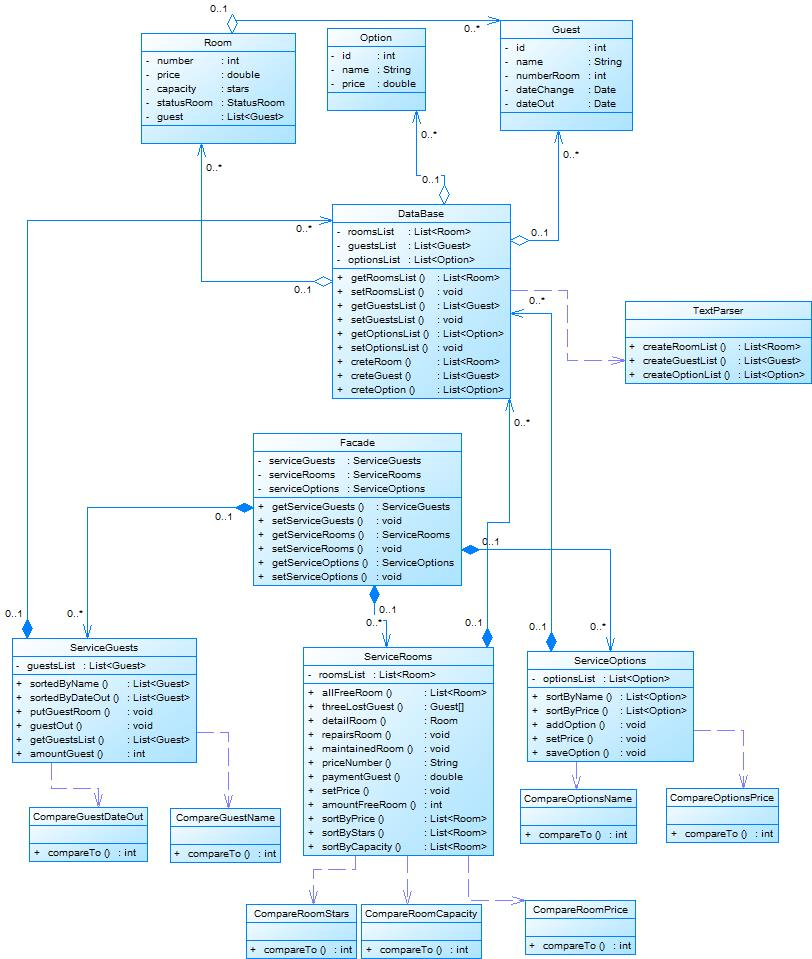
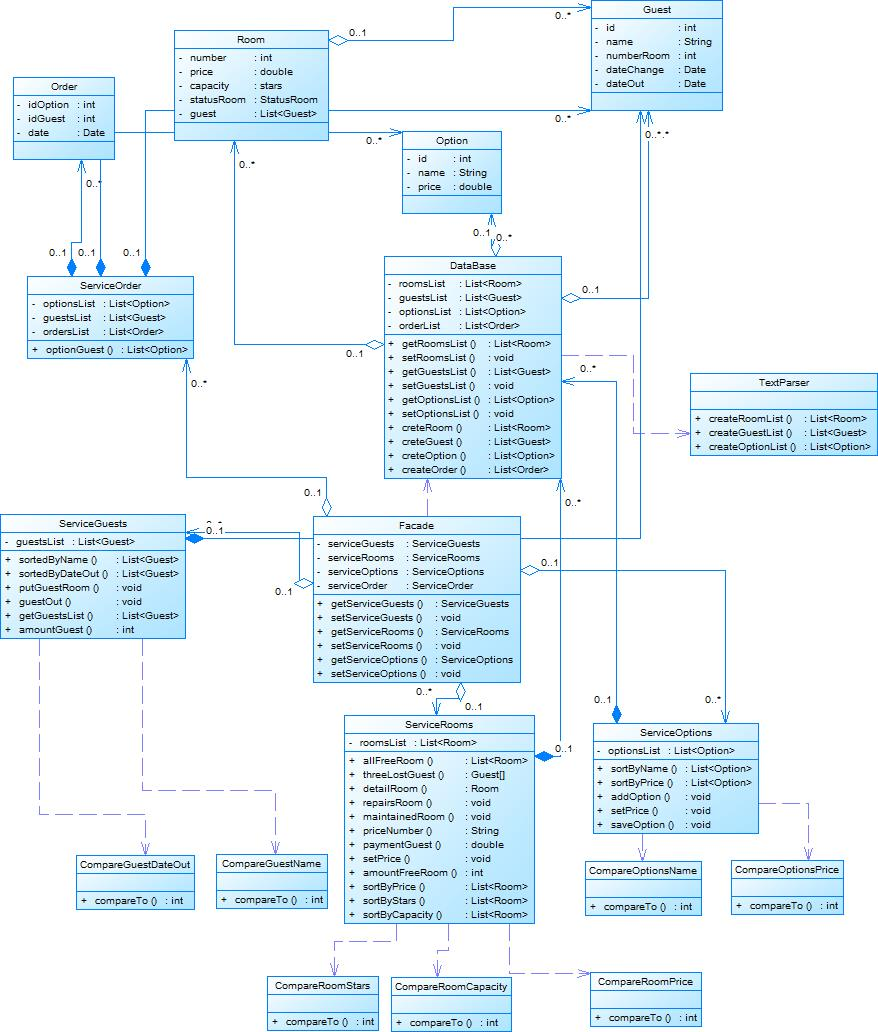
update

diff --git a/task4/hotel/src/com/example/oleg/base/parser/TextParser.java b/task4/hotel/src/com/example/oleg/base/parser/TextParser.java
@@ -7,10 +7,11 @@ import java.util.Date;
 import java.util.List;
 import com.example.oleg.model.Guest;
 import com.example.oleg.model.Option;
+import com.example.oleg.model.Order;
 import com.example.oleg.model.Room;
 
 public class TextParser {
-
+	private final SimpleDateFormat FORMAT = new SimpleDateFormat("dd.MM.yyyy");
 	public TextParser() {
 
 	}
@@ -37,10 +38,9 @@ public class TextParser {
 			String[] guestStr = str[i].split(";");
 			int id = Integer.parseInt(guestStr[0]);
 			String name = guestStr[1];
-			int numberRoom = Integer.parseInt(guestStr[2]);
-			SimpleDateFormat format = new SimpleDateFormat("dd.MM.yyyy");
-			Date dateChange = format.parse(guestStr[3]);
-			Date dateOut = format.parse(guestStr[4]);
+			int numberRoom = Integer.parseInt(guestStr[2]);		
+			Date dateChange = FORMAT.parse(guestStr[3]);
+			Date dateOut = FORMAT.parse(guestStr[4]);
 			Guest guest = new Guest(id, name, numberRoom, dateChange, dateOut);
 			list.add(guest);
 		}
@@ -59,6 +59,24 @@ public class TextParser {
 			Option option = new Option(id, name, price);
 			list.add(option);
 		}
+		return list;
+	}
+	
+	public List<Order>createOrderList(String[] str) throws ParseException{
+		ArrayList<Order> list = new ArrayList<Order>();
+
+		for (int i = 0; i < str.length; i++) {
+			String[] orderStr = str[i].split(";");
+			int idOption = Integer.parseInt(orderStr[0]);
+			int idGuest= Integer.parseInt(orderStr[1]);
+			Date date=FORMAT.parse(orderStr[2]);
+			Order order=new Order();
+			order.setIdGuest(idGuest);
+			order.setIdOption(idOption);
+			order.setDateOption(date);
+			list.add(order);
+		}
+		
 		return list;
 	}
 

diff --git a/task4/hotel/src/com/example/oleg/base/DateBase.java b/task4/hotel/src/com/example/oleg/base/DateBase.java
@@ -8,19 +8,22 @@ import com.danco.training.TextFileWorker;
 import com.example.oleg.base.parser.TextParser;
 import com.example.oleg.model.Guest;
 import com.example.oleg.model.Option;
+import com.example.oleg.model.Order;
 import com.example.oleg.model.Room;
 
 public class DateBase {
 	private List<Room> roomsList;
 	private List<Guest> guestsList;
 	private List<Option> optionsList;
+	private List<Order> orderList;
 
-	public DateBase(String path1, String path2, String path3)
+	public DateBase(String path1, String path2, String path3,String path4)
 			throws ParseException {
 
 		this.roomsList = creteRoom(path1);
 		this.guestsList = creteGuest(path2);
 		this.optionsList = creteOption(path3);
+		this.orderList=createOrder(path4);
 		guestAddRoom();
 	}
 
@@ -77,11 +80,27 @@ public class DateBase {
 		return list;
 	}
 
+	private List<Order> createOrder(String path) throws ParseException{
+		TextFileWorker textFileWorker = new TextFileWorker(path);
+		String[] orders = textFileWorker.readFromFile();
+		TextParser textParser=new TextParser();
+		List<Order> list = textParser.createOrderList(orders);
+		
+		return list;
+	}
 	private void guestAddRoom() {
 		for (int i = 0; i < this.guestsList.size(); i++) {
 			Guest guest = this.guestsList.get(i);
 			this.roomsList.get(guest.getNumberRoom()).getGuest().add(guest);
 		}
+	}
+
+	public List<Order> getOrderList() {
+		return orderList;
+	}
+
+	public void setOrderList(List<Order> orderList) {
+		this.orderList = orderList;
 	}	
 
 	

diff --git a/task4/hotel/src/com/example/oleg/Main.java b/task4/hotel/src/com/example/oleg/Main.java
@@ -17,7 +17,7 @@ public class Main {
 		// TODO Auto-generated method stub
 		System.out.println(args[0]);
 		
-		DateBase dateBase = new DateBase(args[0], args[1], args[2]);
+		DateBase dateBase = new DateBase(args[0], args[1], args[2], args[3]);
 		Facade facade = new Facade(dateBase);
 		for (int i = 0; i < facade.getServiceGuests().getGuestsList().size(); i++) {
 			System.out.println(facade.getServiceGuests().getGuestsList().get(i));
@@ -51,7 +51,7 @@ public class Main {
 
 		facade.getServiceGuests().putGuestRoom("kira",1, format.parse("19.10.2016"), format.parse("30.10.2016"));
 		facade.getServiceGuests().saveGuest(args[1]);
-		dateBase = new DateBase(args[0], args[1], args[2]);
+		dateBase = new DateBase(args[0], args[1], args[2],args[3]);
 		facade=new Facade(dateBase);
 		for (int i = 0; i < facade.getServiceGuests().getGuestsList().size(); i++) {
 			System.out.println(facade.getServiceGuests().getGuestsList().get(i));
@@ -68,6 +68,11 @@ public class Main {
 		System.out.println(facade.getServiceRooms().detailRoom(4));
 		System.out.println("-----------------------------------------------------");		
 		System.out.println(facade.getServiceRooms().paymentGuest(4));
+		System.out.println("-----------------------------------------------------");		
+		for (int i = 0; i < facade.getServiceOrder().optionGuest(1).size(); i++) {
+			System.out.println(facade.getServiceOrder().optionGuest(1).get(i));
+		}
+		
 	}
 
 	

diff --git a/task4/hotel/src/com/example/oleg/controller/ServiceOrder.java b/task4/hotel/src/com/example/oleg/controller/ServiceOrder.java
@@ -1,0 +1,51 @@
+package com.example.oleg.controller;
+
+import java.util.ArrayList;
+import java.util.List;
+
+import com.example.oleg.base.DateBase;
+import com.example.oleg.model.Guest;
+import com.example.oleg.model.Option;
+import com.example.oleg.model.Order;
+
+public class ServiceOrder {
+	
+	private List<Option> optionsList;
+	private List<Guest> guestsList;
+	private List<Order> ordersList;
+	
+	public ServiceOrder(DateBase dateBase){
+		this.optionsList=dateBase.getOptionsList();
+		this.guestsList=dateBase.getGuestsList();
+		this.ordersList=dateBase.getOrderList();
+	}
+	
+	public List<Option> optionGuest(int idGuest){
+		Guest guest=null;
+		int optionId=0;
+		List<Option>optionList=new ArrayList<Option>();
+		for(int i=0;i<this.guestsList.size();i++){
+			if(this.guestsList.get(i).getId()==idGuest){
+				guest=this.guestsList.get(i);
+				break;
+			}
+		}
+		
+		for(int i=0;i<this.ordersList.size();i++){
+			if((guest.getId()==this.ordersList.get(i).getIdGuest())){
+				 optionId=this.ordersList.get(i).getIdOption();
+				 for(int j=0; j<this.optionsList.size();j++){
+					if(optionId==this.optionsList.get(j).getId()){
+						Option option=this.optionsList.get(j);
+						option.setDateExecut(this.ordersList.get(i).getDateOption());
+						optionList.add(option);
+						break;
+					}
+				 } 
+			}
+		}
+		
+		return optionList;
+	}
+	
+}

diff --git a/task4/hotel/src/com/example/oleg/controller/Facade.java b/task4/hotel/src/com/example/oleg/controller/Facade.java
@@ -6,11 +6,12 @@ public class Facade {
 	private ServiceGuests serviceGuests;
 	private ServiceRooms serviceRooms;
 	private ServiceOptions serviceOptions;
-
+	private ServiceOrder serviceOrder;
 	public Facade(DateBase dateBase) {
 		this.serviceGuests = new ServiceGuests(dateBase.getGuestsList());
 		this.serviceRooms = new ServiceRooms(dateBase.getRoomsList());
 		this.serviceOptions = new ServiceOptions(dateBase.getOptionsList());
+		this.setServiceOrder(new ServiceOrder(dateBase));
 	}
 
 	public ServiceGuests getServiceGuests() {
@@ -35,5 +36,13 @@ public class Facade {
 
 	public void setServiceOptions(ServiceOptions serviceOptions) {
 		this.serviceOptions = serviceOptions;
+	}
+
+	public ServiceOrder getServiceOrder() {
+		return serviceOrder;
+	}
+
+	public void setServiceOrder(ServiceOrder serviceOrder) {
+		this.serviceOrder = serviceOrder;
 	}
 }

diff --git a/task4/hotel/src/com/example/oleg/model/Order.java b/task4/hotel/src/com/example/oleg/model/Order.java
@@ -1,23 +1,28 @@
 package com.example.oleg.model;
 
+import java.util.Date;
+
 public class Order {
-	private Guest guest;
-	private Option option;
-
-	public Guest getGuest() {
-		return guest;
+	private int idGuest;
+	private int idOption;
+	private Date dateOption;
+	public int getIdGuest() {
+		return idGuest;
 	}
-
-	public void setGuest(Guest guest) {
-		this.guest = guest;
+	public void setIdGuest(int idGuest) {
+		this.idGuest = idGuest;
 	}
-
-	public Option getOption() {
-		return option;
+	public int getIdOption() {
+		return idOption;
 	}
-
-	public void setOption(Option option) {
-		this.option = option;
+	public void setIdOption(int idOption) {
+		this.idOption = idOption;
+	}
+	public Date getDateOption() {
+		return dateOption;
+	}
+	public void setDateOption(Date dateOption) {
+		this.dateOption = dateOption;
 	}
 
 }
